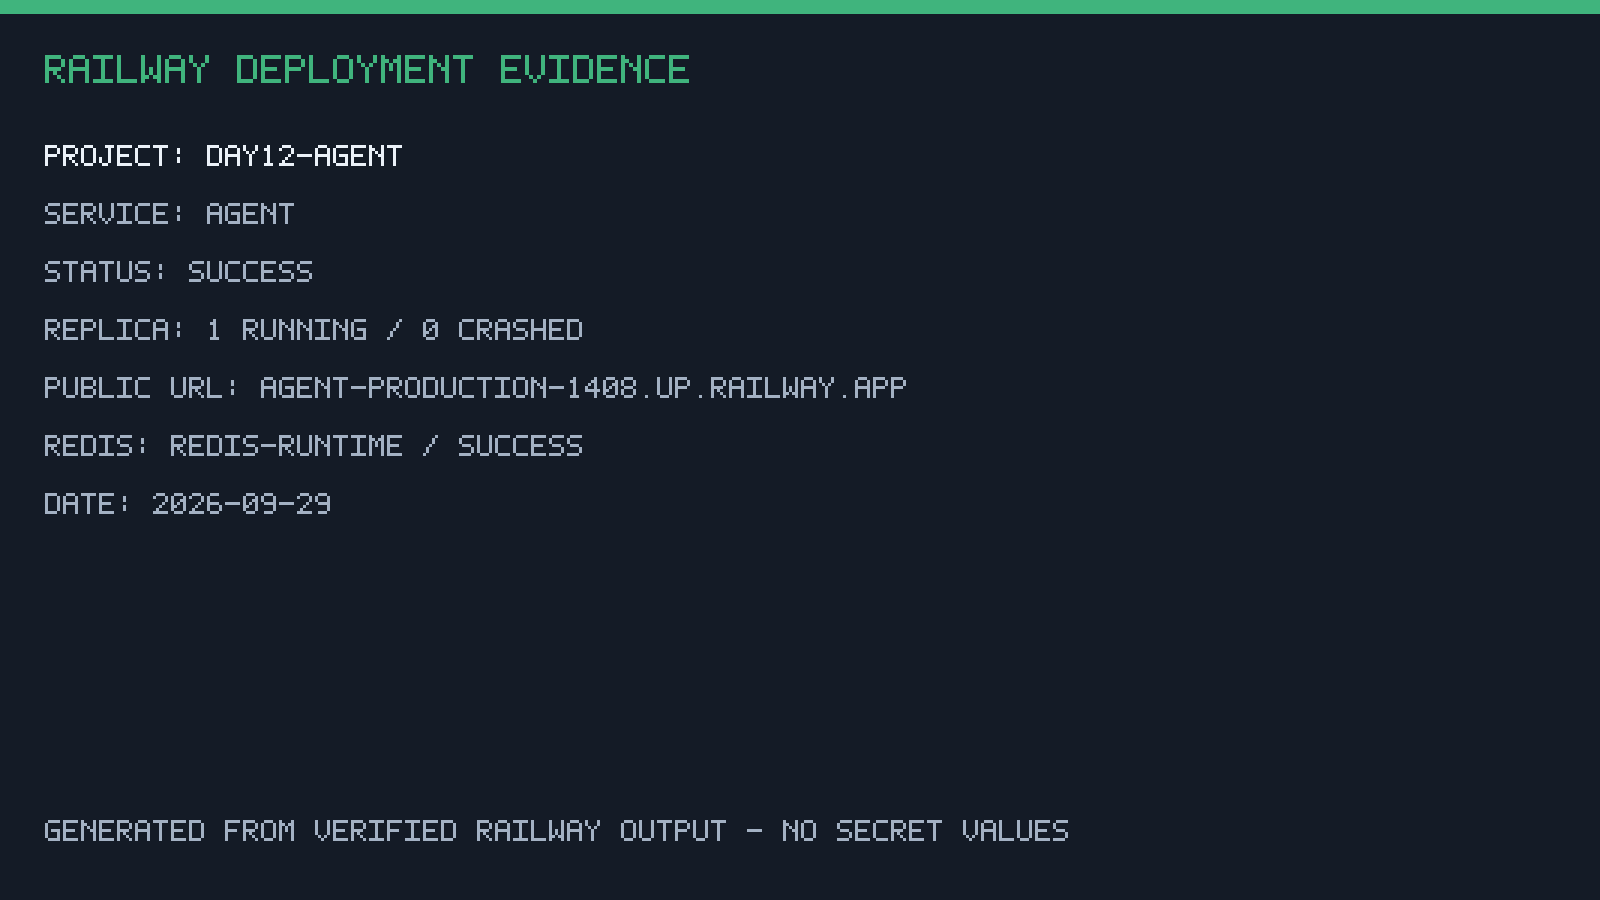
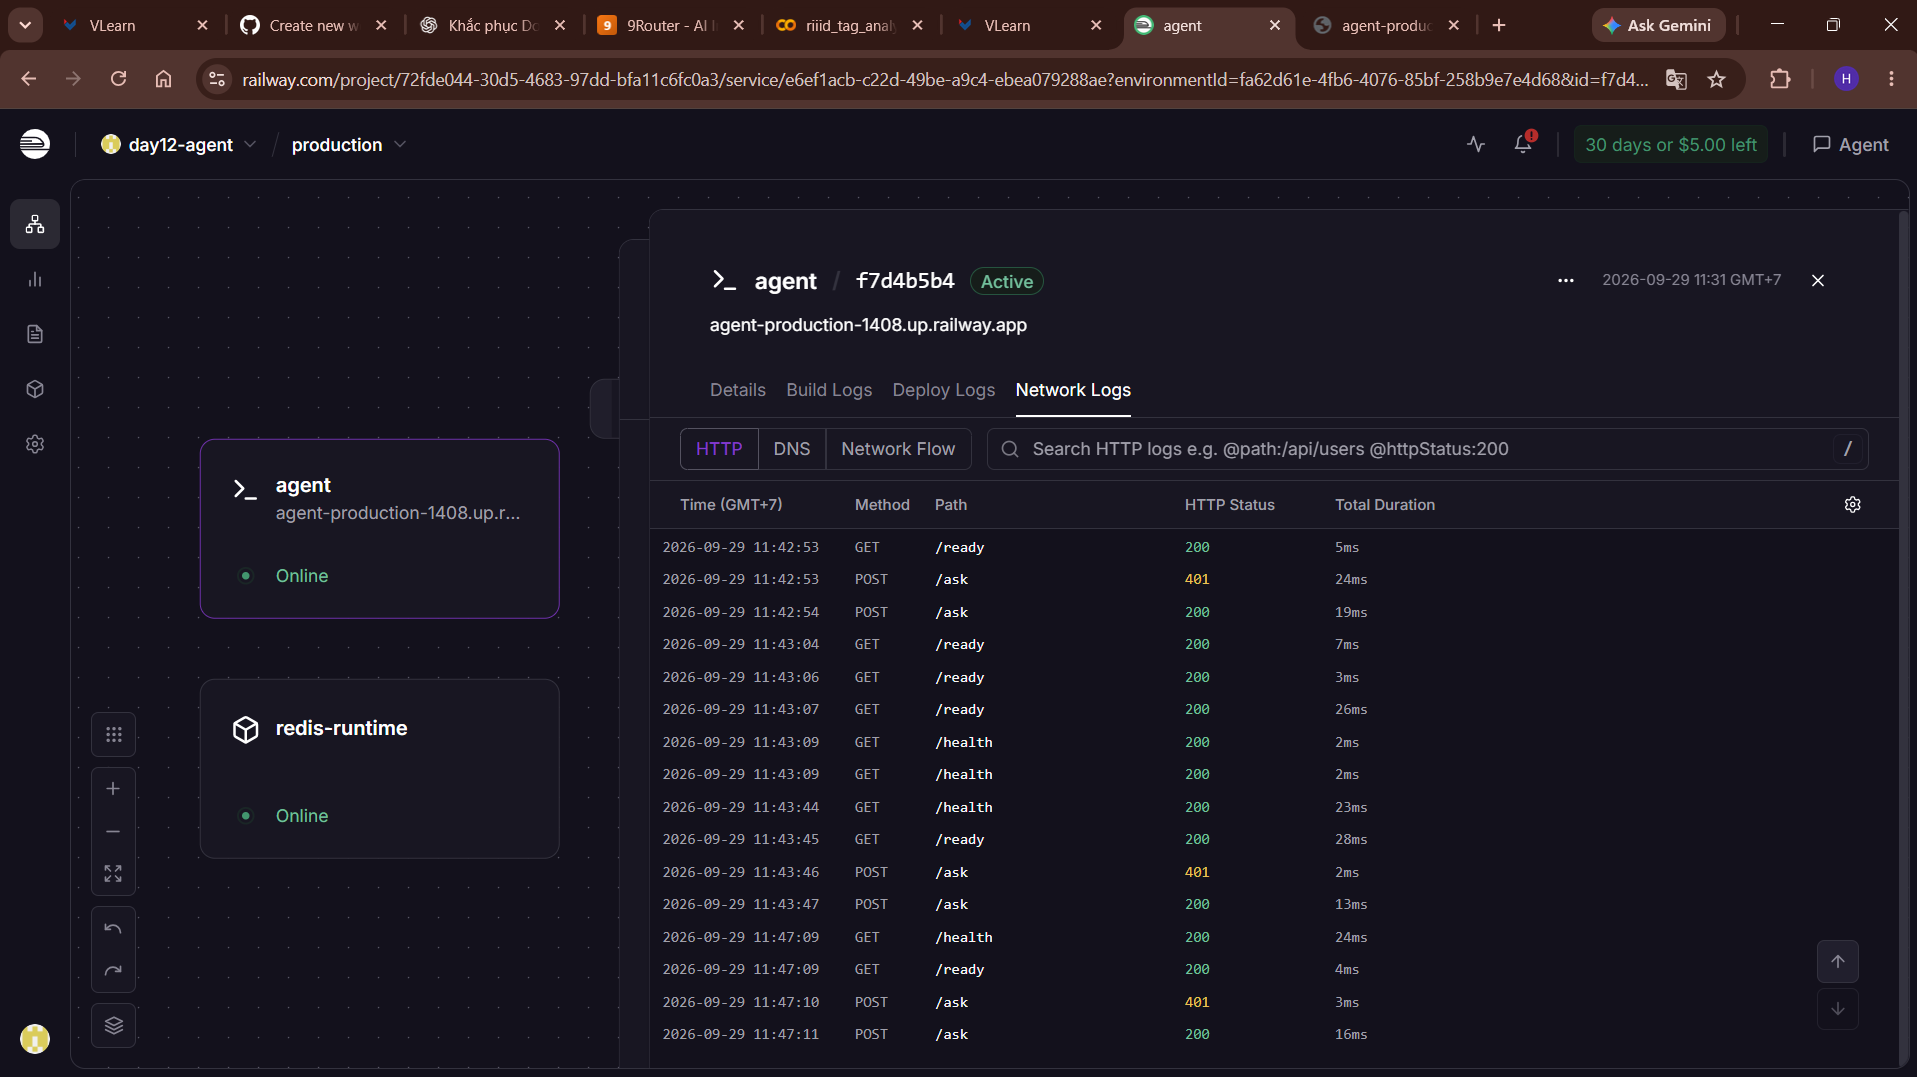
Add CI/CD workflow and deployment evidence

diff --git a/README.md b/README.md
@@ -1,5 +1,7 @@
 # K4 — Level 3B, Ngày 12: Hạ Tầng Cloud & Deployment (240 phút)
 
+[![CI](https://github.com/hongneuk65/K4-L3B-DAY12-NguyenVanHong-2A202602800-CloudServicesAndDeployment/actions/workflows/ci.yml/badge.svg)](https://github.com/hongneuk65/K4-L3B-DAY12-NguyenVanHong-2A202602800-CloudServicesAndDeployment/actions/workflows/ci.yml)
+
 Đưa một AI agent từ `localhost:8000` lên một địa chỉ công khai mà người khác
 gọi được, có bảo mật, có giới hạn chi phí, và không sập khi bạn deploy bản mới.
 
